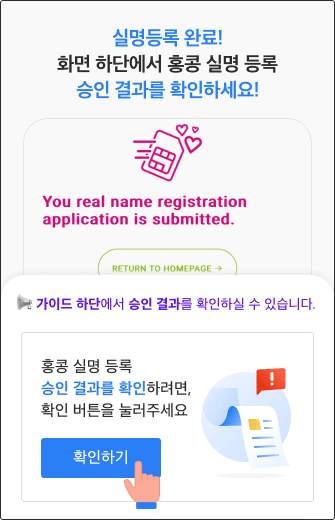
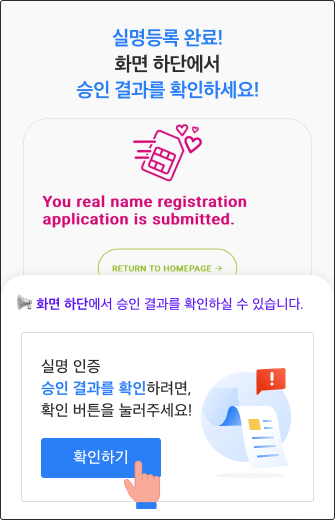
20231107 hotfix 내용 - unpublish 상품 결제 시 문구 출력 및 동작 추가, 대만 실명인증 추가

Changed region(s): [[0.0896, 0.5538, 0.9254, 0.6154], [0.1791, 0.0923, 0.8358, 0.1538], [0.1194, 0.6769, 0.3881, 0.7385]]

diff --git a/components/AppSvgIcon/pressIcon.tsx b/components/AppSvgIcon/pressIcon.tsx
@@ -827,6 +827,21 @@ const pressIcons: Record<string, React.ReactElement[]> = {
       />
     </Svg>,
   ],
+  checkGreenSmall: [
+    <Svg
+      width="16"
+      height="16"
+      viewBox="0 0 16 16"
+      fill="none"
+      xmlns="http://www.w3.org/2000/svg">
+      <Path
+        fillRule="evenodd"
+        clipRule="evenodd"
+        d="M11.909 5.247a1 1 0 0 1 .095 1.41l-3.82 4.377a1 1 0 0 1-1.467.043l-2.43-2.47a1 1 0 0 1 1.426-1.402l1.673 1.7 3.112-3.563a1 1 0 0 1 1.41-.095z"
+        fill="#00AD50"
+      />
+    </Svg>,
+  ],
   hkCheck: [
     <Svg
       width="96"
@@ -2849,8 +2864,8 @@ const pressIcons: Record<string, React.ReactElement[]> = {
       xmlns="http://www.w3.org/2000/svg">
       <G filter="url(#csidtg60xa)">
         <Path
-          fill-rule="evenodd"
-          clip-rule="evenodd"
+          fillRule="evenodd"
+          clipRule="evenodd"
           d="M22.451 9.924a2 2 0 0 0 1.099 0l21-6A2 2 0 0 0 43.451.078L23.001 5.92 2.55.078a2 2 0 0 0-1.099 3.846l21 6z"
           fill="#EFF1F3"
         />
@@ -3586,6 +3601,89 @@ const pressIcons: Record<string, React.ReactElement[]> = {
         d="M15.909 9.247a1 1 0 0 1 .095 1.41l-3.82 4.377a1 1 0 0 1-1.467.043l-2.43-2.47a1 1 0 1 1 1.426-1.402l1.673 1.7 3.112-3.563a1 1 0 0 1 1.41-.095z"
         fill="#fff"
       />
+    </Svg>,
+  ],
+  bluePlus: [
+    <Svg
+      width="16"
+      height="16"
+      viewBox="0 0 16 16"
+      fill="none"
+      xmlns="http://www.w3.org/2000/svg">
+      <Path
+        fillRule="evenodd"
+        clipRule="evenodd"
+        d="M9 4a1 1 0 0 0-2 0v3H4a1 1 0 1 0 0 2h3v3a1 1 0 1 0 2 0V9h3a1 1 0 1 0 0-2H9V4z"
+        fill="#2A7FF6"
+      />
+    </Svg>,
+  ],
+  redirectFlag: [
+    <Svg
+      width="44"
+      height="26"
+      viewBox="0 0 44 26"
+      fill="none"
+      xmlns="http://www.w3.org/2000/svg">
+      <G clipPath="url(#7muozqmana)">
+        <G clip-path="url(#8zm4mv4qxb)">
+          <Circle cx="13" cy="13" r="11.5" fill="#E52620" stroke="#EEE" />
+          <Path
+            fillRule="evenodd"
+            clipRule="evenodd"
+            d="M15.094 5.305c-.688.37-.97 1.18-.5 1.88.2.3.306.695.287 1.11-.025.42-.144.822-.475 1.198-.5.695-1.431.733-1.606 1.772-.044.479.031.95.362 1.377-.518-.51-.856-1.07-.968-1.689-.12-.644.006-1.358.425-2.155l-.082-.044c-.425.816-.556 1.549-.43 2.218.118.65.474 1.237 1.024 1.766-.944-.567-1.556-1.243-1.969-2.327-.53-1.963.35-4.048 2.194-4.851a3.502 3.502 0 0 1 1.738-.255zM6.98 8.88A3.86 3.86 0 0 0 6.7 10.68a3.96 3.96 0 0 0 3.825 3.615c1.125-.083 1.931-.485 2.737-1.244-.656.383-1.3.561-1.937.479-.65-.083-1.294-.428-1.919-1.09l.069-.07c.612.643 1.231.981 1.862 1.058.607.076 1.225-.09 1.85-.453-.493.198-.95.127-1.38-.057-.913-.485-.67-1.416-1.163-2.11a1.825 1.825 0 0 0-.97-.823c-.374-.14-.774-.16-1.112-.05-.78.254-1.45-.262-1.58-1.053zm1.663 2.308.33.287.363-.236-.162.414.331.28-.431-.031-.156.414-.107-.433-.43-.026.362-.236-.1-.433zm7.65 8.791A3.7 3.7 0 0 0 17.55 18.7c1.019-1.773.531-3.997-1.025-5.247-.956-.618-1.831-.79-2.919-.663.75.09 1.369.344 1.844.797.481.465.8 1.135.925 2.053l-.094.012c-.125-.892-.431-1.542-.9-1.995-.444-.427-1.037-.676-1.75-.765.513.14.838.478 1.081.886.457.944-.268 1.55-.268 2.41-.044.504.093.905.312 1.256.225.344.538.6.869.72.769.274 1.012 1.103.669 1.817zm-.025-2.875-.107-.434-.43-.031.362-.236-.107-.434.332.287.362-.236-.162.408.33.287-.43-.032-.15.42zm4.562-4.839a3.726 3.726 0 0 0-.737-1.65c-1.27-1.595-3.457-1.881-5.125-.791-.888.714-1.344 1.51-1.6 2.613.337-.694.78-1.217 1.35-1.517.587-.312 1.306-.389 2.18-.204l-.018.096c-.856-.185-1.556-.102-2.119.191-.543.287-.968.778-1.293 1.44.3-.452.718-.656 1.175-.751 1.018-.122 1.318.79 2.106 1.083.444.217.856.217 1.25.128.387-.096.731-.319.95-.6.512-.662 1.344-.618 1.881-.038zm-2.625-.956-.425-.045-.175.408-.087-.433-.425-.045.375-.223-.094-.433.319.3.368-.224-.175.408.32.287zM7.581 17.838c.763.14 1.469-.325 1.506-1.18.02-.356.17-.745.425-1.058.27-.318.6-.56 1.082-.656.806-.242 1.568.319 2.318-.402.313-.35.538-.771.525-1.32.113.734.05 1.39-.225 1.951-.287.587-.806 1.078-1.606 1.447l.038.09c.818-.383 1.35-.886 1.65-1.492.287-.593.35-1.281.225-2.046.418 1.045.506 1.963.193 3.085-.73 1.893-2.662 2.996-4.6 2.474a3.72 3.72 0 0 1-1.53-.893zm2.675-.822.425.044.088.434.175-.408.425.044-.32-.293.176-.408-.369.223-.319-.3.094.434-.375.23zm3.2-9.378-.362.236-.325-.287.1.434-.37.23.432.03.1.434.163-.408.43.039-.324-.287.156-.42z"
+            fill="#fff"
+          />
+        </G>
+        <G clip-path="url(#3qoyp7j92c)">
+          <Mask
+            id="38lu3468fd"
+            style="mask-type:alpha"
+            maskUnits="userSpaceOnUse"
+            x="19"
+            y="1"
+            width="24"
+            height="24">
+            <Circle cx="31" cy="13" r="12" fill="#fff" />
+          </Mask>
+          <G mask="url(#38lu3468fd)">
+            <Circle cx="31" cy="13" r="12" fill="#E52620" />
+            <Path d="M34.077.692H15.615V13h18.462V.692z" fill="#000095" />
+            <Path
+              d="m28.128 6.846-1.23 4.616-1.231-4.616 1.23-4.615m0 5.846 4.616-1.23-4.616-1.231-4.615 1.23"
+              fill="#fff"
+            />
+            <Path
+              d="m27.963 7.462-3.374 3.381 1.242-4.612 3.374-3.381m-2.923 5.062 4.612 1.242-3.381-3.374L22.9 4.538"
+              fill="#fff"
+            />
+            <Path
+              d="M27.513 7.912 22.9 9.153l3.381-3.373 4.612-1.242m-5.062 2.923 3.374 3.381-1.242-4.612-3.374-3.381"
+              fill="#fff"
+            />
+            <Path
+              d="M26.897 9.461a2.615 2.615 0 1 0 0-5.23 2.615 2.615 0 0 0 0 5.23z"
+              fill="#000095"
+            />
+            <Path
+              d="M26.898 9.154a2.307 2.307 0 1 0 0-4.615 2.307 2.307 0 0 0 0 4.615z"
+              fill="#fff"
+            />
+            <Circle cx="31" cy="13" r="11.5" stroke="#EEE" />
+          </G>
+        </G>
+      </G>
+      <Defs>
+        <ClipPath id="7muozqmana">
+          <Path fill="#fff" d="M0 0h44v26H0z" />
+        </ClipPath>
+        <ClipPath id="8zm4mv4qxb">
+          <Path fill="#fff" transform="translate(1 1)" d="M0 0h24v24H0z" />
+        </ClipPath>
+        <ClipPath id="3qoyp7j92c">
+          <Path fill="#fff" transform="translate(19 1)" d="M0 0h24v24H0z" />
+        </ClipPath>
+      </Defs>
     </Svg>,
   ],
   bannerMark: [

diff --git a/screens/EsimScreen/components/EsimSubs.tsx b/screens/EsimScreen/components/EsimSubs.tsx
@@ -298,6 +298,12 @@ const styles = StyleSheet.create({
     lineHeight: 26,
     marginLeft: 6,
   },
+  greenText: {
+    ...appStyles.medium16,
+    color: colors.shamrock,
+    lineHeight: 26,
+    marginLeft: 6,
+  },
   newIcon: {
     position: 'absolute',
     top: -9,
@@ -678,6 +684,7 @@ const EsimSubs: React.FC<EsimSubsProps> = ({
   ]);
 
   const renderHkBtn = useCallback(() => {
+    const isSuccess = mainSubs.tag?.includes('HA');
     if (
       !expired &&
       mainSubs.giftStatusCd !== 'S' &&
@@ -685,7 +692,12 @@ const EsimSubs: React.FC<EsimSubsProps> = ({
     )
       return (
         <Pressable
-          style={styles.redirectHK}
+          style={[
+            styles.redirectHK,
+            {
+              backgroundColor: isSuccess ? colors.backGrey : colors.white,
+            },
+          ]}
           onPress={() =>
             navigation.navigate('RedirectHK', {
               iccid: mainSubs?.subsIccid!,
@@ -695,24 +707,24 @@ const EsimSubs: React.FC<EsimSubsProps> = ({
             })
           }>
           <View style={styles.row}>
-            <AppSvgIcon name="hkIcon" style={{marginTop: 1}} />
+            <AppSvgIcon name="redirectFlag" style={{marginTop: 1}} />
             <AppText style={styles.redirectText}>
               {i18n.t('esim:redirectHK2')}
             </AppText>
           </View>
-          {mainSubs.tag?.includes('HA') ? (
+          {isSuccess ? (
             <View style={[styles.row, {justifyContent: 'flex-end'}]}>
-              <AppSvgIcon name="checkedBlueSmall" />
-              <AppText style={styles.blueText}>
+              <AppText style={styles.greenText}>
                 {i18n.t('esim:redirectHK:done')}
               </AppText>
+              <AppSvgIcon name="checkGreenSmall" />
             </View>
           ) : (
             <View style={[styles.row, {justifyContent: 'flex-end'}]}>
               <AppText style={styles.redirectButtonText}>
                 {i18n.t('esim:redirectHK2:button')}
               </AppText>
-              <AppSvgIcon name="rightArrow" />
+              <AppSvgIcon name="bluePlus" />
             </View>
           )}
         </Pressable>

diff --git a/screens/PymMethodScreen/index.tsx b/screens/PymMethodScreen/index.tsx
@@ -210,6 +210,23 @@ const PymMethodScreen: React.FC<PymMethodScreenProps> = ({
             setClickable(true);
             if (resp.result === api.E_RESOURCE_NOT_FOUND) {
               AppAlert.info(i18n.t('cart:soldOut'));
+            } else if (resp.result === api.E_STATUS_EXPIRED) {
+              const {orderId} = cart;
+              const orderItems = cart?.orderItems.filter((elm) =>
+                resp?.message.split(',').includes(elm.prod.sku),
+              );
+              const orderItemIds = orderItems.map((elm) => elm.orderItemId);
+              orderItemIds.forEach((orderItemId) => {
+                if (orderItemId && orderId) {
+                  action.cart.cartRemove({
+                    orderId,
+                    orderItemId,
+                  });
+                }
+              });
+              AppAlert.info(i18n.t('cart:unpublishedError'), '', () =>
+                navigation.goBack(),
+              );
             } else {
               AppAlert.info(i18n.t('cart:systemError'));
             }

diff --git a/redux/api/cartApi.ts b/redux/api/cartApi.ts
@@ -420,9 +420,12 @@ const makeOrder = ({
       body: JSON.stringify(body),
     },
     (resp) => {
-      if (resp.order_id.length > 0) {
+      if (resp.order_id?.length > 0) {
         // order_id 값이 있으면 성공한 것으로 간주한다.
         return api.success([resp]);
+      }
+      if (resp.result === api.E_STATUS_EXPIRED) {
+        return api.failure<PurchaseItem>(resp.result, resp.desc);
       }
       return api.failure<PurchaseItem>(-1, 'no result');
     },
@@ -455,7 +458,7 @@ const calculateTotal = ({
       }),
     },
     (resp) => {
-      if (resp.order_id.length > 0) {
+      if (resp.order_id?.length > 0) {
         // order_id 값이 있으면 성공한 것으로 간주한다.
         return api.success([resp]);
       }
